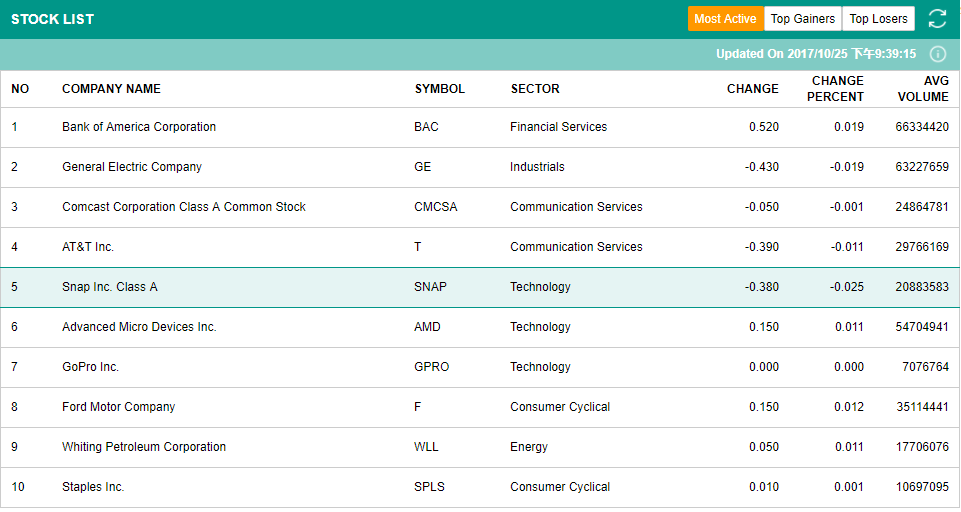
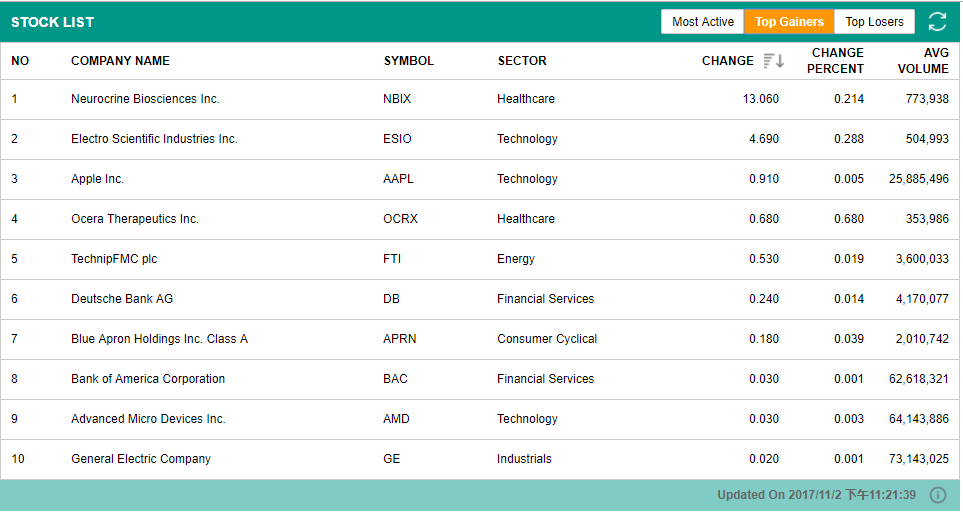
finish the interactive version of left stock list panel, update readme with latest stock list image and functionality description

diff --git a/README.md b/README.md
@@ -4,24 +4,30 @@
 This tool allows user to view up-to-date stocks information, news and recent data.
 
 ## Some New Features:
+- Updating stock list automatically[done]
+- Highlighting column header with order icon based on which type is selected[done]
 - Adding complex news view - done
 - Adding search bar to allow users to search stock by symbol
 - Adding details table for selected stock - done
 - Adding functionality to allow user config the view of stock quote table:
-    - setup number of columns on each row (select between 2-6 for ux purpose) - done
-    - setup which column data they would like to see in this table - done
-- Allowing user to select axis for the line chart - working
+    - setup number of columns on each row (select between 2-6 for ux purpose) - transferring
+    - setup which column data they would like to see in this table - transferring
 - Allowing user to fold detail sections (quote, news, chart) by click on blue section header - done
 
 ## Demo
 ### Overview
-This is a tool to help user see top stocks' details, news and past chart easily.
+This is a tool to allow user get insights about stock market with real-time stock info.
 ![Overview](./demo/overview.png)
 
-### Top Stocks Table
-This tool will automatically retrieve up-to-date top stocks from stock market and listed on the left.
-Users are able to select one of stocks if they would like to see more details.
-![Top Stocks Table](./top-stock-table.PNG)
+### Stock List
+Stock list allows user to find top 10 stocks in different types, including "most active", "top gainers" and "top losers".
+#### Features:
+- Automatically update stock list with a selected type every 10 seconds, time stamp will be updated in the bottom of list;
+- Retrieving real-time stock info via clicking refresh button;
+- Switching list types among "most active", "top gainers" and "top losers", to find out their target stock;
+- Highlighting columns based on list types with sort order;
+- Selecting a specific stock to find out more details about their choice, details will show in the right panel
+![Stock List Table](./demo/stock_list_table.PNG)
 
 ### Stock Details
 This section will display summary and all available data of the selected stock.
